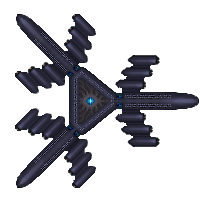
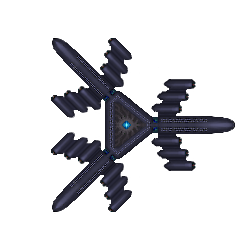
valothar

Changed region(s): [[0.06, 0.06, 1.0, 0.96]]

diff --git a/source/server/model/ships/ZCustomChLonas/wlcChlonasVaLothar.php b/source/server/model/ships/ZCustomChLonas/wlcChlonasVaLothar.php
@@ -18,7 +18,7 @@ class wlcChlonasVaLothar extends SmallStarBaseThreeSections{
 		$this->forwardDefense = 20;
 		$this->sideDefense = 20;
 		$this->imagePath = "img/ships/ChlonasVaLothar.png";
-		$this->canvasSize = 200;
+		$this->canvasSize = 250;
 		$this->isd = 2243;
 
 		$this->locations = array(1, 4, 3);
